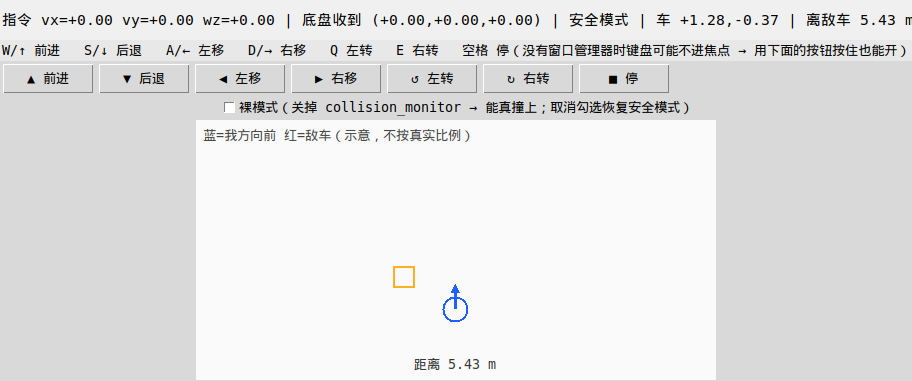
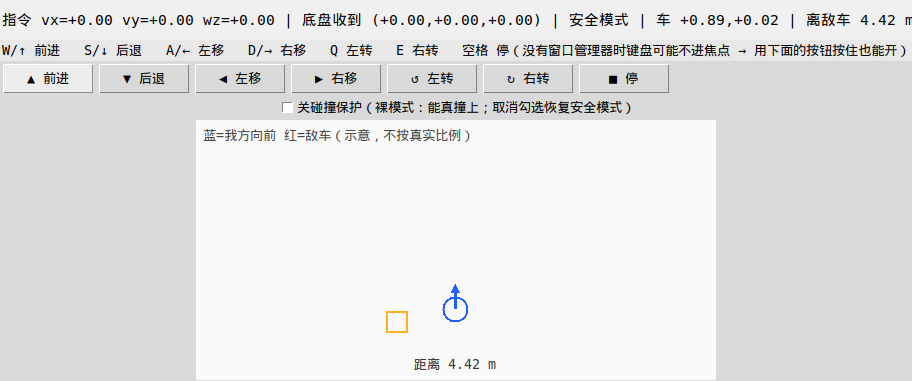
fix(sentry): 裸模式改走 FootprintApproach.enabled 动态参数（不再断 lifecycle bond）；安全模式开机强制

diff --git a/tb3_gazebo_nav2/sentry_sim/tools/teleop_gui.py b/tb3_gazebo_nav2/sentry_sim/tools/teleop_gui.py
@@ -45,8 +45,9 @@ from rclpy.signals import SignalHandlerOptions                      # noqa: E402
 from geometry_msgs.msg import PoseStamped, Twist                    # noqa: E402
 from nav_msgs.msg import Odometry                                   # noqa: E402
 from nav2_msgs.msg import CollisionMonitorState                     # noqa: E402
-from lifecycle_msgs.msg import Transition                           # noqa: E402
-from lifecycle_msgs.srv import ChangeState                          # noqa: E402
+from rcl_interfaces.msg import Parameter as RosParameter            # noqa: E402
+from rcl_interfaces.msg import ParameterValue, ParameterType        # noqa: E402
+from rcl_interfaces.srv import SetParameters                        # noqa: E402
 import tkinter as tk                                                # noqa: E402
 
 CONTACT_M = 0.47          # 0.5x0.5 车 + 0.4x0.4 敌车：面贴面时中心距 0.45，取 0.47 留 2 cm
@@ -56,12 +57,15 @@ class RosBackend:
     def __init__(self, topic):
         self.node = Node("teleop_gui",
                          parameter_overrides=[Parameter("use_sim_time", Parameter.Type.BOOL, True)])
-        # 安全模式：进 cmd_vel_nav（smoother + collision_monitor → /cmd_vel）
-        # 裸模式：关掉 collision_monitor 后直接发 /cmd_vel（能真撞上，用来做碰撞测试）
+        # 安全模式：进 cmd_vel_nav（smoother + collision_monitor → /cmd_vel）。
+        # "裸模式"不是去 deactivate collision_monitor —— 那会断 bond，lifecycle_manager 判定
+        # 节点失联后把整套导航节点一起关掉（2026-11-23 实测，车就彻底不动了）。
+        # 正确做法：只把碰撞保护多边形 FootprintApproach.enabled 设成 false（可动态改，
+        # 节点保持 active、bond 不断，命令原样直通）。
         self.pub_safe = self.node.create_publisher(Twist, topic, 10)
-        self.pub_raw = self.node.create_publisher(Twist, "cmd_vel", 10)
         self.raw = False
-        self.mon_client = self.node.create_client(ChangeState, "/collision_monitor/change_state")
+        self.param_client = self.node.create_client(SetParameters,
+                                                    "/collision_monitor/set_parameters")
         self.car = None
         self.enemy = None
         self.base_cmd = (0.0, 0.0, 0.0)
@@ -120,25 +124,30 @@ class RosBackend:
         t.linear.y = float(vy)
         t.linear.z = 0.0
         t.angular.z = float(wz)
-        (self.pub_raw if self.raw else self.pub_safe).publish(t)
+        self.pub_safe.publish(t)
 
-    def set_monitor(self, active):
-        """切换 collision_monitor：activate=3 / deactivate=4。"""
-        if not self.mon_client.service_is_ready():
-            if not self.mon_client.wait_for_service(timeout_sec=2.0):
-                print("SET_MONITOR 服务不可用", flush=True)
+    def set_guard(self, enabled):
+        """开关 collision_monitor 的碰撞保护（FootprintApproach.enabled，动态参数）。
+
+        不用 lifecycle deactivate：那会断 bond，lifecycle_manager 认为节点失联后会把整套
+        导航节点一起停掉（实测车完全不动）。这里节点保持 active，命令只是不再被拦。
+        """
+        if not self.param_client.service_is_ready():
+            if not self.param_client.wait_for_service(timeout_sec=2.0):
+                print("SET_GUARD 服务不可用", flush=True)
                 return False
-        req = ChangeState.Request()
-        req.transition.id = Transition.TRANSITION_ACTIVATE if active else \
-            Transition.TRANSITION_DEACTIVATE
-        fut = self.mon_client.call_async(req)
+        req = SetParameters.Request()
+        req.parameters.append(RosParameter(
+            name="FootprintApproach.enabled",
+            value=ParameterValue(type=ParameterType.PARAMETER_BOOL, bool_value=enabled)))
+        fut = self.param_client.call_async(req)
 
         def _done(f):
             try:
-                ok = f.result().success
-                print(f"SET_MONITOR {'activate' if active else 'deactivate'} -> {ok}", flush=True)
+                res = f.result().results[0]
+                print(f"SET_GUARD enabled={enabled} -> {res.successful}", flush=True)
             except Exception as exc:                                # noqa: BLE001
-                print(f"SET_MONITOR 失败 {exc}", flush=True)
+                print(f"SET_GUARD 失败 {exc}", flush=True)
 
         fut.add_done_callback(_done)
         return True
@@ -185,7 +194,7 @@ class Win(tk.Tk):
         self.bind("<KeyPress>", self._press)
         self.bind("<KeyRelease>", self._release)
         self.raw_var = tk.BooleanVar(value=False)
-        tk.Checkbutton(self, text="裸模式（关掉 collision_monitor → 能真撞上；取消勾选恢复安全模式）",
+        tk.Checkbutton(self, text="关碰撞保护（裸模式：能真撞上；取消勾选恢复安全模式）",
                        variable=self.raw_var, command=self._toggle_raw,
                        font=("Consolas", 10)).pack(fill="x")
         self.canvas = tk.Canvas(self, width=520, height=260, bg="#fafafa",
@@ -223,7 +232,7 @@ class Win(tk.Tk):
 
     def _toggle_raw(self):
         want = bool(self.raw_var.get())
-        if self.backend.set_monitor(not want):
+        if self.backend.set_guard(not want):
             self.backend.raw = want
             print(f"RAW {'ON（monitor 关闭，能撞）' if want else 'OFF（安全模式）'}", flush=True)
 
@@ -293,13 +302,15 @@ def main():
         rclpy.shutdown()
         return 0
     backend = RosBackend(args.topic)
+    backend.set_guard(True)          # 开局强制安全模式（碰撞保护开着），要撞自己勾裸模式
+    time.sleep(0.5)
     win = Win(backend, args.speed)
     try:
         win.mainloop()
     except KeyboardInterrupt:
         pass
     if backend.raw:                       # 退出前把安全模式恢复回来
-        backend.set_monitor(True)
+        backend.set_guard(True)
         time.sleep(1.0)
     backend.shutdown()
     if rclpy.ok():

diff --git a/tb3_gazebo_nav2/sentry_sim/README.md b/tb3_gazebo_nav2/sentry_sim/README.md
@@ -120,7 +120,9 @@ collision_monitor 状态。两种模式：
 | 模式 | 链路 | 行为 |
 |---|---|---|
 | **安全模式**（默认） | `cmd_vel_nav → velocity_smoother → collision_monitor → /cmd_vel` | 前方有障碍时 collision_monitor 把车停住：实测按住前进 6 s，`cmd_vel_nav` 0.50 / `cmd_vel_smoothed` 0.50 / `/cmd_vel` **0.00**，车不动 |
-| **裸模式**（勾选） | 把 `collision_monitor` deactivate，直接发 `/cmd_vel` | 才能真撞上做碰撞测试；窗口打印 `CONTACT 车(...) 敌车(...) 中心距 0.46 m` |
+| **裸模式**（勾选） | 把 `FootprintApproach.enabled` 设成 false（动态参数，节点仍 active、bond 不断），命令原样直通 | 才能真撞上做碰撞测试；窗口打印 `CONTACT 车(...) 敌车(...) 中心距 0.46 m` |
+
+启动时窗口会**强制把碰撞保护设回 true**（安全模式），退出时如果还处于裸模式也会恢复。
 
 退出遥控窗口会自动把 collision_monitor 恢复成 active。
 
@@ -230,6 +232,10 @@ results/                 # 验收 JSON 证据
 16. **点目标要查代价地图**：点地图窗口的静态吸附（`min_clear`）看不见敌车/箱子 —— 它们只在
     `/global_costmap/costmap` 里。窗口现在订阅该图，目标落在高代价格（≥85，内切/致命区）就自动
     挪到 1 m 内最近空地（实测点敌车正中心 → 代价 99 → 挪到 0.6 m 外），挪不开就拒绝发目标。
+17. **别用 lifecycle 去 deactivate `collision_monitor`**：它和 lifecycle_manager 有 bond，
+    手动 deactivate 会被判定"节点失联"→ 管理器把 bt_navigator 等一起停掉，整套导航下线、
+    `/cmd_vel` 没人发，表现就是**车完全不动**（2026-11-23 踩过，遥控"打不开"就是这个）。
+    要临时关掉碰撞保护，改动态参数 `FootprintApproach.enabled=false`（节点保持 active、bond 不断）。
 
 ## 8. Humble / RDK S100 兼容
 
